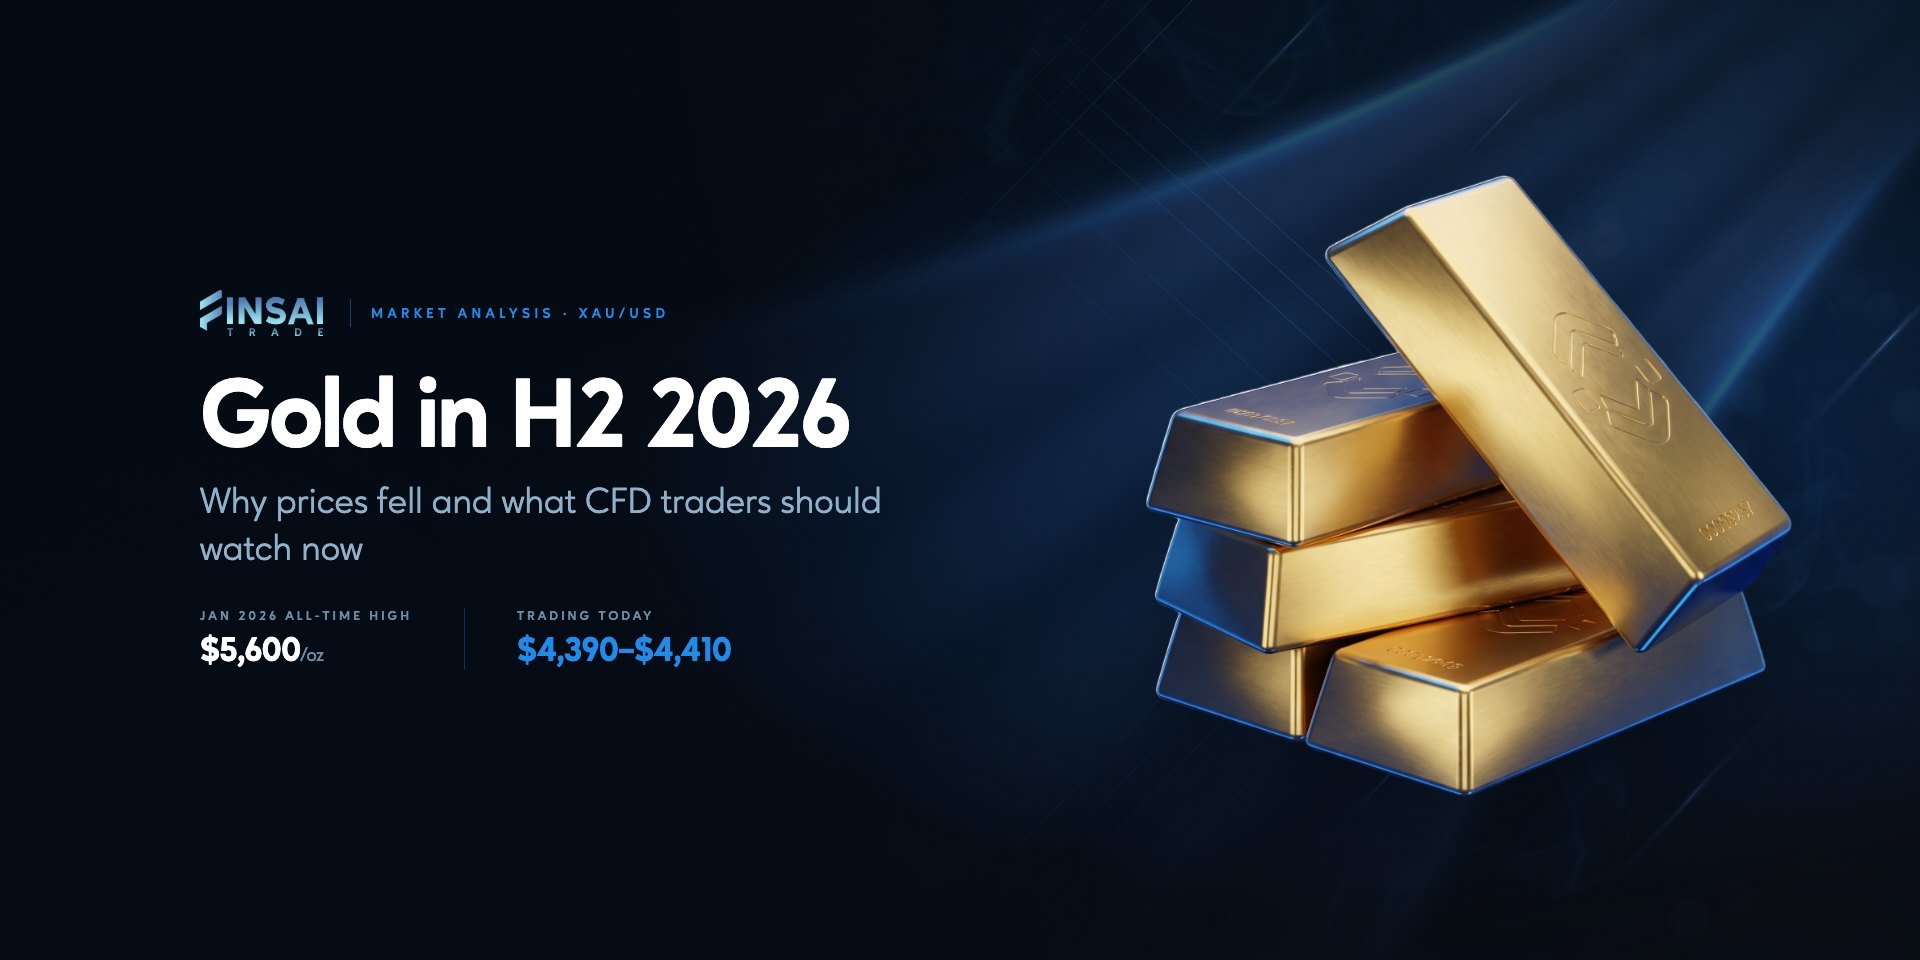
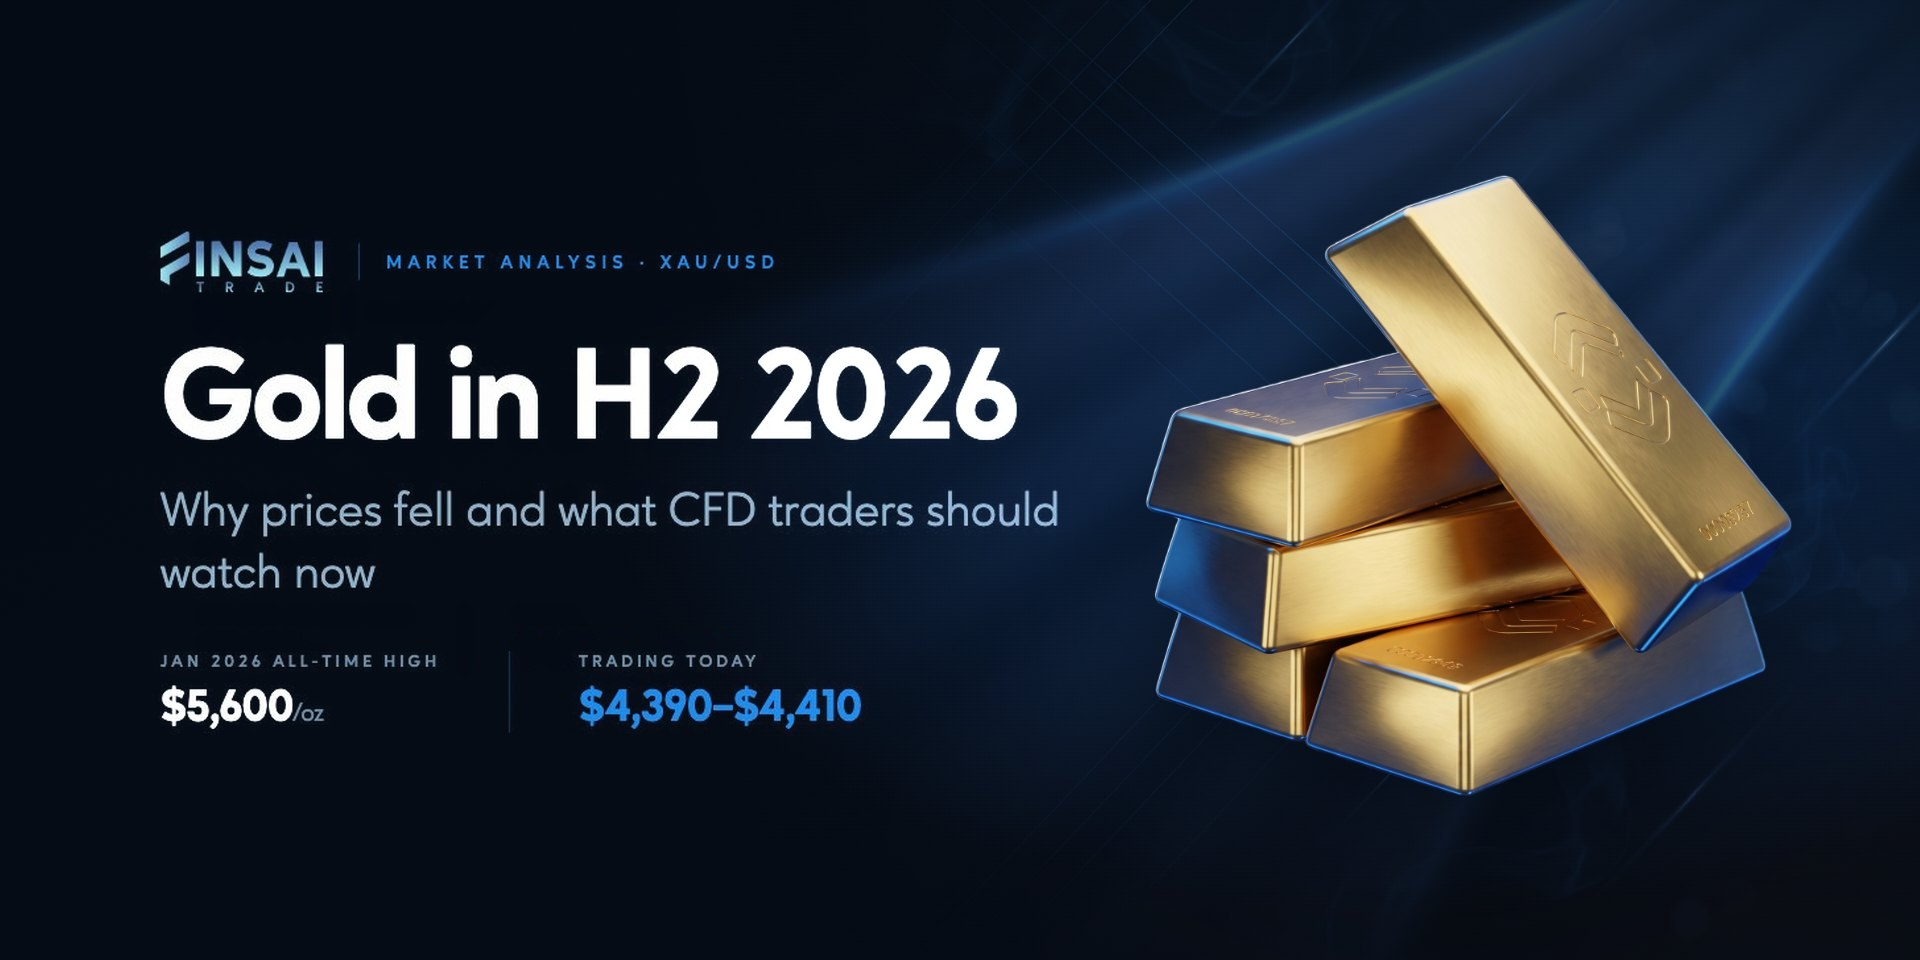
feat: updated the blog, llms-full.txt, llms.txt, robots.txt

Changed region(s): [[0.0625, 0.25, 0.5312, 0.4688], [0.0625, 0.5, 0.5625, 0.75], [0.25, 0.625, 0.4688, 0.75]]

diff --git a/src/components/BlogsSearchSection.tsx b/src/components/BlogsSearchSection.tsx
@@ -10,17 +10,19 @@ const cardPositions = [
   { top: "156px", left: "75px" },
   { top: "156px", left: "507px" },
   { top: "156px", left: "939px" },
-  { top: "465px", left: "75px" },
-  { top: "465px", left: "507px" },
-  { top: "465px", left: "939px" },
+  { top: "500px", left: "75px" },
+  { top: "500px", left: "507px" },
+  { top: "500px", left: "939px" },
 ];
 
 export type BlogCard = {
-  title:    string;
-  category: string;
-  image:    string;
-  desc:     string;
-  href:     string;
+  title:     string;
+  category:  string;
+  image:     string;
+  /** Listing-card override; falls back to `image`. */
+  thumbnail?: string;
+  desc:      string;
+  href:      string;
 };
 
 function useSearch(allCards: BlogCard[]) {
@@ -72,7 +74,7 @@ function DesktopArticleCard({ desc, href, image, top, left }: { desc: string; hr
   return (
     <div style={{
       position: "absolute", top, left,
-      width: "415px", height: "285px",
+      width: "415px", height: "320px",
       borderRadius: "21.32px",
       border: "1px solid transparent",
       background: `${CARD_INNER_BG} padding-box, ${BORDER_GRADIENT} border-box`,
@@ -80,11 +82,11 @@ function DesktopArticleCard({ desc, href, image, top, left }: { desc: string; hr
       overflow: "hidden",
     }}>
       <div style={{ width: "100%", height: "100%", position: "relative", boxSizing: "border-box" }}>
-        <div style={{ position: "absolute", top: "12px", left: "17px", width: "380px", height: "116px", borderRadius: "16px", overflow: "hidden" }}>
+        <div style={{ position: "absolute", top: "12px", left: "17px", width: "380px", height: "170px", borderRadius: "16px", overflow: "hidden" }}>
           <Image src={image} alt="" fill sizes="380px" style={{ objectFit: "cover" }} />
         </div>
         <p style={{
-          position: "absolute", top: "144px", left: "21px",
+          position: "absolute", top: "198px", left: "21px",
           width: "378px", height: "81px", margin: 0, overflow: "hidden",
           fontFamily: "var(--font-inter, Inter)", fontWeight: 400, fontSize: "18px", lineHeight: "27px",
           color: "rgba(255,255,255,0.7)",
@@ -92,7 +94,7 @@ function DesktopArticleCard({ desc, href, image, top, left }: { desc: string; hr
           {desc}
         </p>
         <Link href={href} style={{
-          position: "absolute", top: "238px", left: "21px",
+          position: "absolute", top: "292px", left: "21px",
           display: "inline-flex", alignItems: "center", gap: "8px",
           fontFamily: "var(--font-inter, Inter)", fontWeight: 400, fontSize: "18px", lineHeight: "27px",
           color: "#056FB4", textDecoration: "none",
@@ -115,7 +117,7 @@ function MobileArticleCard({ desc, href, image }: { desc: string; href: string; 
       background: `${CARD_INNER_BG} padding-box, ${BORDER_GRADIENT} border-box`,
       boxSizing: "border-box", overflow: "hidden",
     }}>
-      <div style={{ width: "100%", height: "120px", position: "relative" }}>
+      <div style={{ width: "100%", height: "170px", position: "relative" }}>
         <Image src={image} alt="" fill sizes="100vw" style={{ objectFit: "cover" }} />
       </div>
       <div style={{ padding: "16px" }}>
@@ -173,7 +175,7 @@ export function BlogsSearchDesktop({ allCards }: { allCards: BlogCard[] }) {
         visible.map((card, i) => (
           <DesktopArticleCard
             key={card.href}
-            image={card.image}
+            image={card.thumbnail ?? card.image}
             desc={card.desc}
             href={card.href}
             top={cardPositions[i].top}
@@ -250,7 +252,7 @@ export function BlogsSearchMobile({ allCards }: { allCards: BlogCard[] }) {
       {visible.length > 0 ? (
         <div style={{ display: "flex", flexDirection: "column", gap: "16px" }}>
           {visible.map((card) => (
-            <MobileArticleCard key={card.href} desc={card.desc} href={card.href} image={card.image} />
+            <MobileArticleCard key={card.href} desc={card.desc} href={card.href} image={card.thumbnail ?? card.image} />
           ))}
         </div>
       ) : (

diff --git a/src/app/layout.tsx b/src/app/layout.tsx
@@ -56,6 +56,15 @@ export const metadata: Metadata = {
   robots: { index: true, follow: true },
 };
 
+/**
+ * Google Tag Manager container.
+ *
+ * Declared once and used by both the loader script and the <noscript>
+ * fallback below — GTM's own install snippet repeats the ID in two places,
+ * which is a well-known way for the two to drift apart.
+ */
+const GTM_ID = "GTM-WBZW9L8T";
+
 export default function RootLayout({
   children,
 }: Readonly<{
@@ -67,6 +76,35 @@ export default function RootLayout({
       className={`${sora.variable} ${inter.variable} ${dmSans.variable} h-full antialiased bg-[#050208] overflow-x-clip`}
     >
       <body className="min-h-full flex flex-col bg-[#050208] w-full max-w-[1440px] mx-auto">
+        {/* Google Tag Manager (noscript) — must be the first node in <body> */}
+        <noscript>
+          <iframe
+            src={`https://www.googletagmanager.com/ns.html?id=${GTM_ID}`}
+            title="Google Tag Manager"
+            height="0"
+            width="0"
+            style={{ display: "none", visibility: "hidden" }}
+          />
+        </noscript>
+
+        {/*
+          Google Tag Manager loader.
+
+          GTM's instructions say to paste this as high in <head> as possible.
+          There is no hand-written <head> in the App Router, and Next
+          recommends "afterInteractive" for tag managers — the same strategy
+          @next/third-parties uses for its own GoogleTagManager component.
+          Tags still fire normally; the container is simply requested once
+          hydration starts rather than blocking first paint.
+        */}
+        <Script id="gtm-loader" strategy="afterInteractive">
+          {`(function(w,d,s,l,i){w[l]=w[l]||[];w[l].push({'gtm.start':
+new Date().getTime(),event:'gtm.js'});var f=d.getElementsByTagName(s)[0],
+j=d.createElement(s),dl=l!='dataLayer'?'&l='+l:'';j.async=true;j.src=
+'https://www.googletagmanager.com/gtm.js?id='+i+dl;f.parentNode.insertBefore(j,f);
+})(window,document,'script','dataLayer','${GTM_ID}');`}
+        </Script>
+
         <Navbar />
         <main className="flex-1">{children}</main>
         <Footer />

diff --git a/src/lib/blogs.ts b/src/lib/blogs.ts
@@ -20,6 +20,12 @@ export type BlogPost = {
   title: string;
   excerpt: string;
   image: string;
+  /**
+   * Optional listing-card image. The card is only 380px wide, so a full
+   * banner's type renders too small to read there; a tighter, purpose-made
+   * crop can be supplied here. Falls back to `image` when omitted.
+   */
+  thumbnail?: string;
   readTime: string;
   publishedAt?: string;
   author?: string;
@@ -45,6 +51,7 @@ export const BLOG_POSTS: BlogPost[] = [
     excerpt:
       "Wondering why is gold price falling after record highs? Track crucial gold price H2 2026 trends, Fed pressure, and top CFD gold trading strategies H2 setups.",
     image: "/blogs/gold-h2-2026/banner-gold-h2-2026.jpg",
+    thumbnail: "/blogs/gold-h2-2026/thumb-gold-h2-2026.jpg",
     readTime: "5 min read",
     publishedAt: "2026-08-19",
     author: "Finsai Trade Team",

diff --git a/src/components/Footer.tsx b/src/components/Footer.tsx
@@ -76,7 +76,7 @@ const socials = [
   },
   {
     label: "YouTube",
-    href: "https://www.youtube.com/@FinsaiTrade-UI",
+    href: "https://www.youtube.com/@FinsaiTradeOfficial",
     icon: (
       <svg viewBox="0 0 24 24" fill="currentColor" width={16} height={16}>
         <path d="M22.54 6.42a2.78 2.78 0 00-1.95-1.96C18.88 4 12 4 12 4s-6.88 0-8.59.46A2.78 2.78 0 001.46 6.42 29 29 0 001 12a29 29 0 00.46 5.58 2.78 2.78 0 001.95 1.95C5.12 20 12 20 12 20s6.88 0 8.59-.47a2.78 2.78 0 001.95-1.95A29 29 0 0023 12a29 29 0 00-.46-5.58z"/><polygon points="9.75 15.02 15.5 12 9.75 8.98 9.75 15.02" fill="#050208"/>

diff --git a/src/lib/structured-data.ts b/src/lib/structured-data.ts
@@ -71,7 +71,7 @@ export function organizationNode() {
       "https://x.com/FinsaiTrade",
       "https://www.instagram.com/finsai.trade",
       "https://www.linkedin.com/company/finsai-trade",
-      "https://www.youtube.com/@FinsaiTrade-UI",
+      "https://www.youtube.com/@FinsaiTradeOfficial",
     ],
     knowsAbout: [
       "Forex Trading",

diff --git a/src/components/BlogsGridSection.tsx b/src/components/BlogsGridSection.tsx
@@ -6,6 +6,7 @@ const allBlogCards = BLOG_POSTS.map((post) => ({
   title: post.title,
   category: post.category,
   image: post.image,
+  thumbnail: post.thumbnail,
   desc: post.excerpt,
   href: `/blogs/${post.slug}`,
 }));
